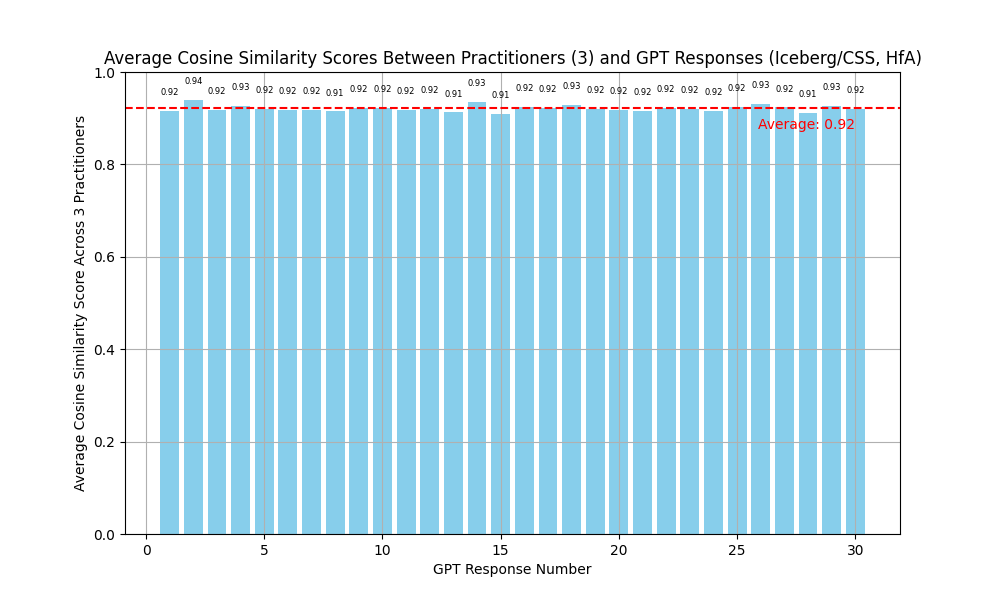
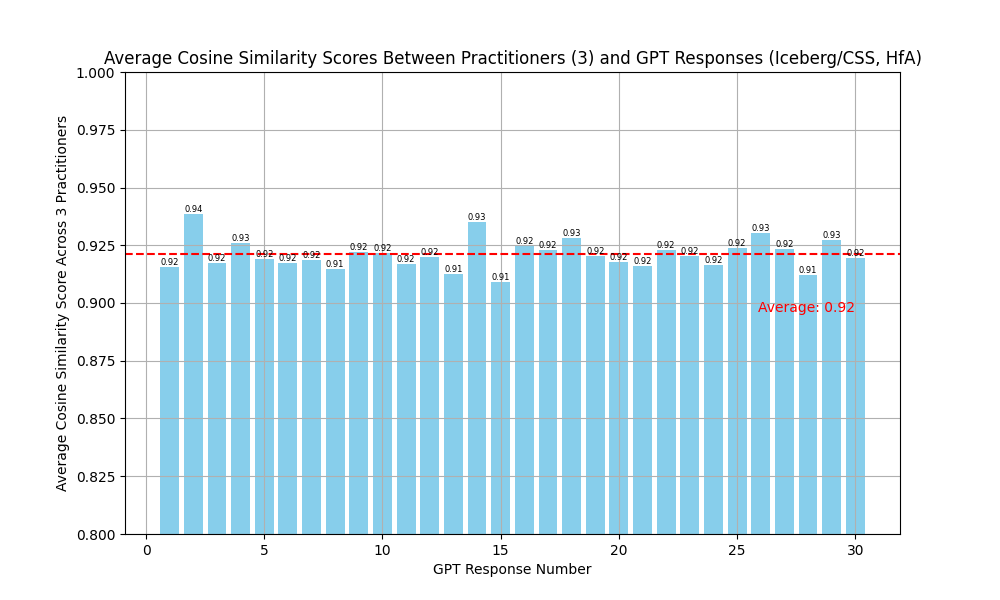
Update benchmarking graphs with better ylim

diff --git a/nlp_analysis_scripts/benchmarking_mult.py b/nlp_analysis_scripts/benchmarking_mult.py
@@ -37,13 +37,13 @@ def main():
     # Label each bar with its value
     for bar in bars:
         yval = bar.get_height()
-        plt.text(bar.get_x() + bar.get_width()/2, yval + 0.03, f'{yval:.2f}', ha='center', va='bottom', color='black', fontsize=6)
+        plt.text(bar.get_x() + bar.get_width()/2, yval, f'{yval:.2f}', ha='center', va='bottom', color='black', fontsize=6)
     
     plt.axhline(y=average_score, color='red', linestyle='--')
     plt.text(len(similarity_scores), average_score - 0.02, f'Average: {average_score:.2f}', color='red', va='top', ha='right')
     
     # Set y-axis limit
-    plt.ylim(0, 1.0)
+    plt.ylim(0.8, 1.0)
 
     plt.xlabel('GPT Response Number')
     plt.ylabel('Average Cosine Similarity Score Across 3 Practitioners')

diff --git a/nlp_analysis_scripts/benchmarking.py b/nlp_analysis_scripts/benchmarking.py
@@ -36,13 +36,13 @@ def main():
     # Label each bar with its value
     for bar in bars:
         yval = bar.get_height()
-        plt.text(bar.get_x() + bar.get_width()/2, yval + 0.03, f'{yval:.2f}', ha='center', va='bottom', color='black', fontsize=6)
+        plt.text(bar.get_x() + bar.get_width()/2, yval, f'{yval:.2f}', ha='center', va='bottom', color='black', fontsize=6)
     
     plt.axhline(y=average_score, color='red', linestyle='--')
     plt.text(len(similarity_scores), average_score - 0.02, f'Average: {average_score:.2f}', color='red', va='top', ha='right')
     
     # Set y-axis limit
-    plt.ylim(0, 1.0)
+    plt.ylim(0.8, 1.0)
 
     plt.xlabel('GPT Response Number')
     plt.ylabel('Cosine Similarity Score')
